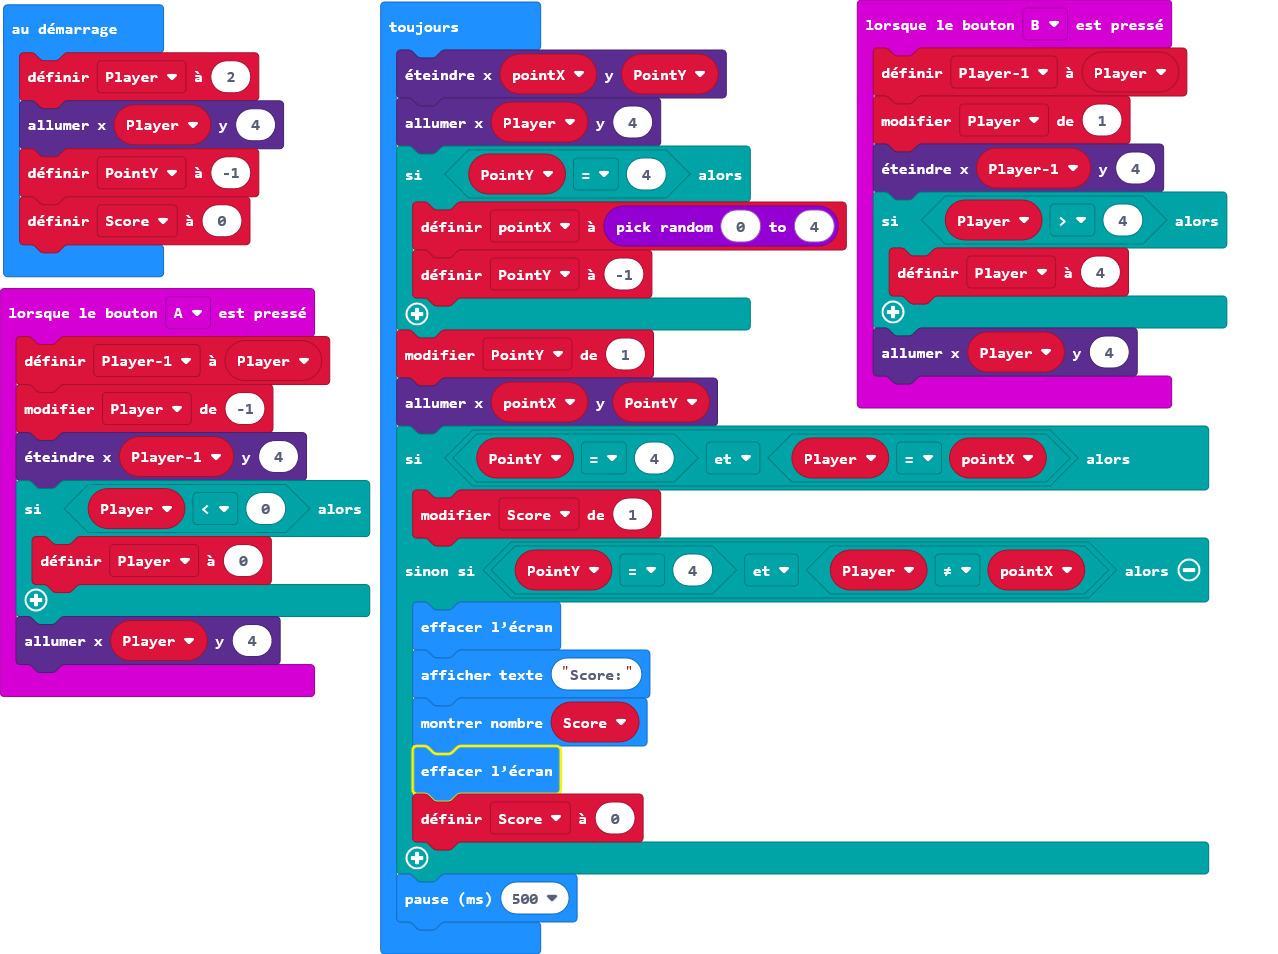
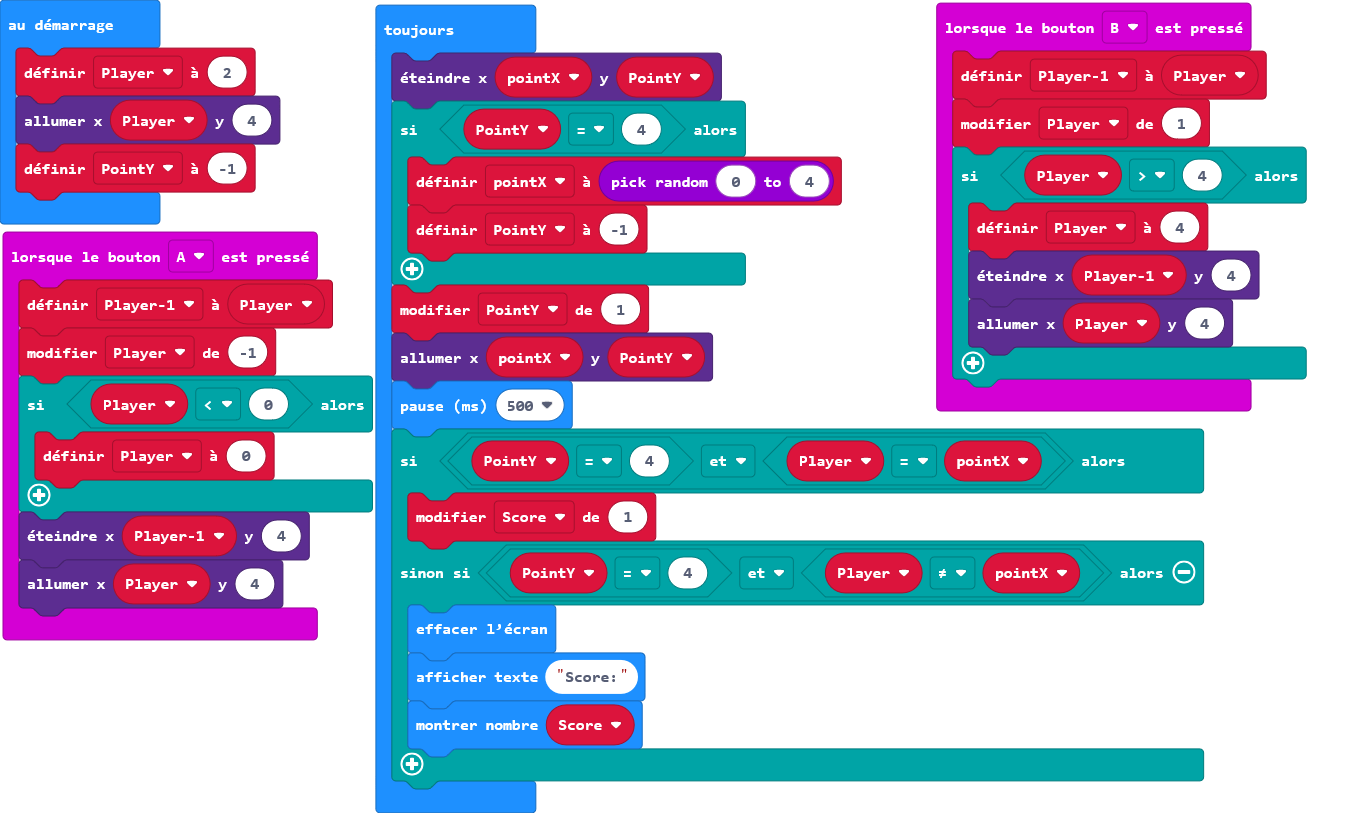
Mise à jour main.blocks, main.ts

diff --git a/main.ts b/main.ts
@@ -16,6 +16,7 @@ input.onButtonPressed(Button.B, function () {
     }
     led.plot(Player, 4)
 })
+let Score = 0
 let pointX = 0
 let Player1 = 0
 let Player = 0
@@ -42,4 +43,11 @@ basic.forever(function () {
         Score = 0
     }
     basic.pause(500)
+    if (PointY == 4 && Player == pointX) {
+        Score += 1
+    } else if (PointY == 4 && Player != pointX) {
+        basic.clearScreen()
+        basic.showString("Score:")
+        basic.showNumber(Score)
+    }
 })
